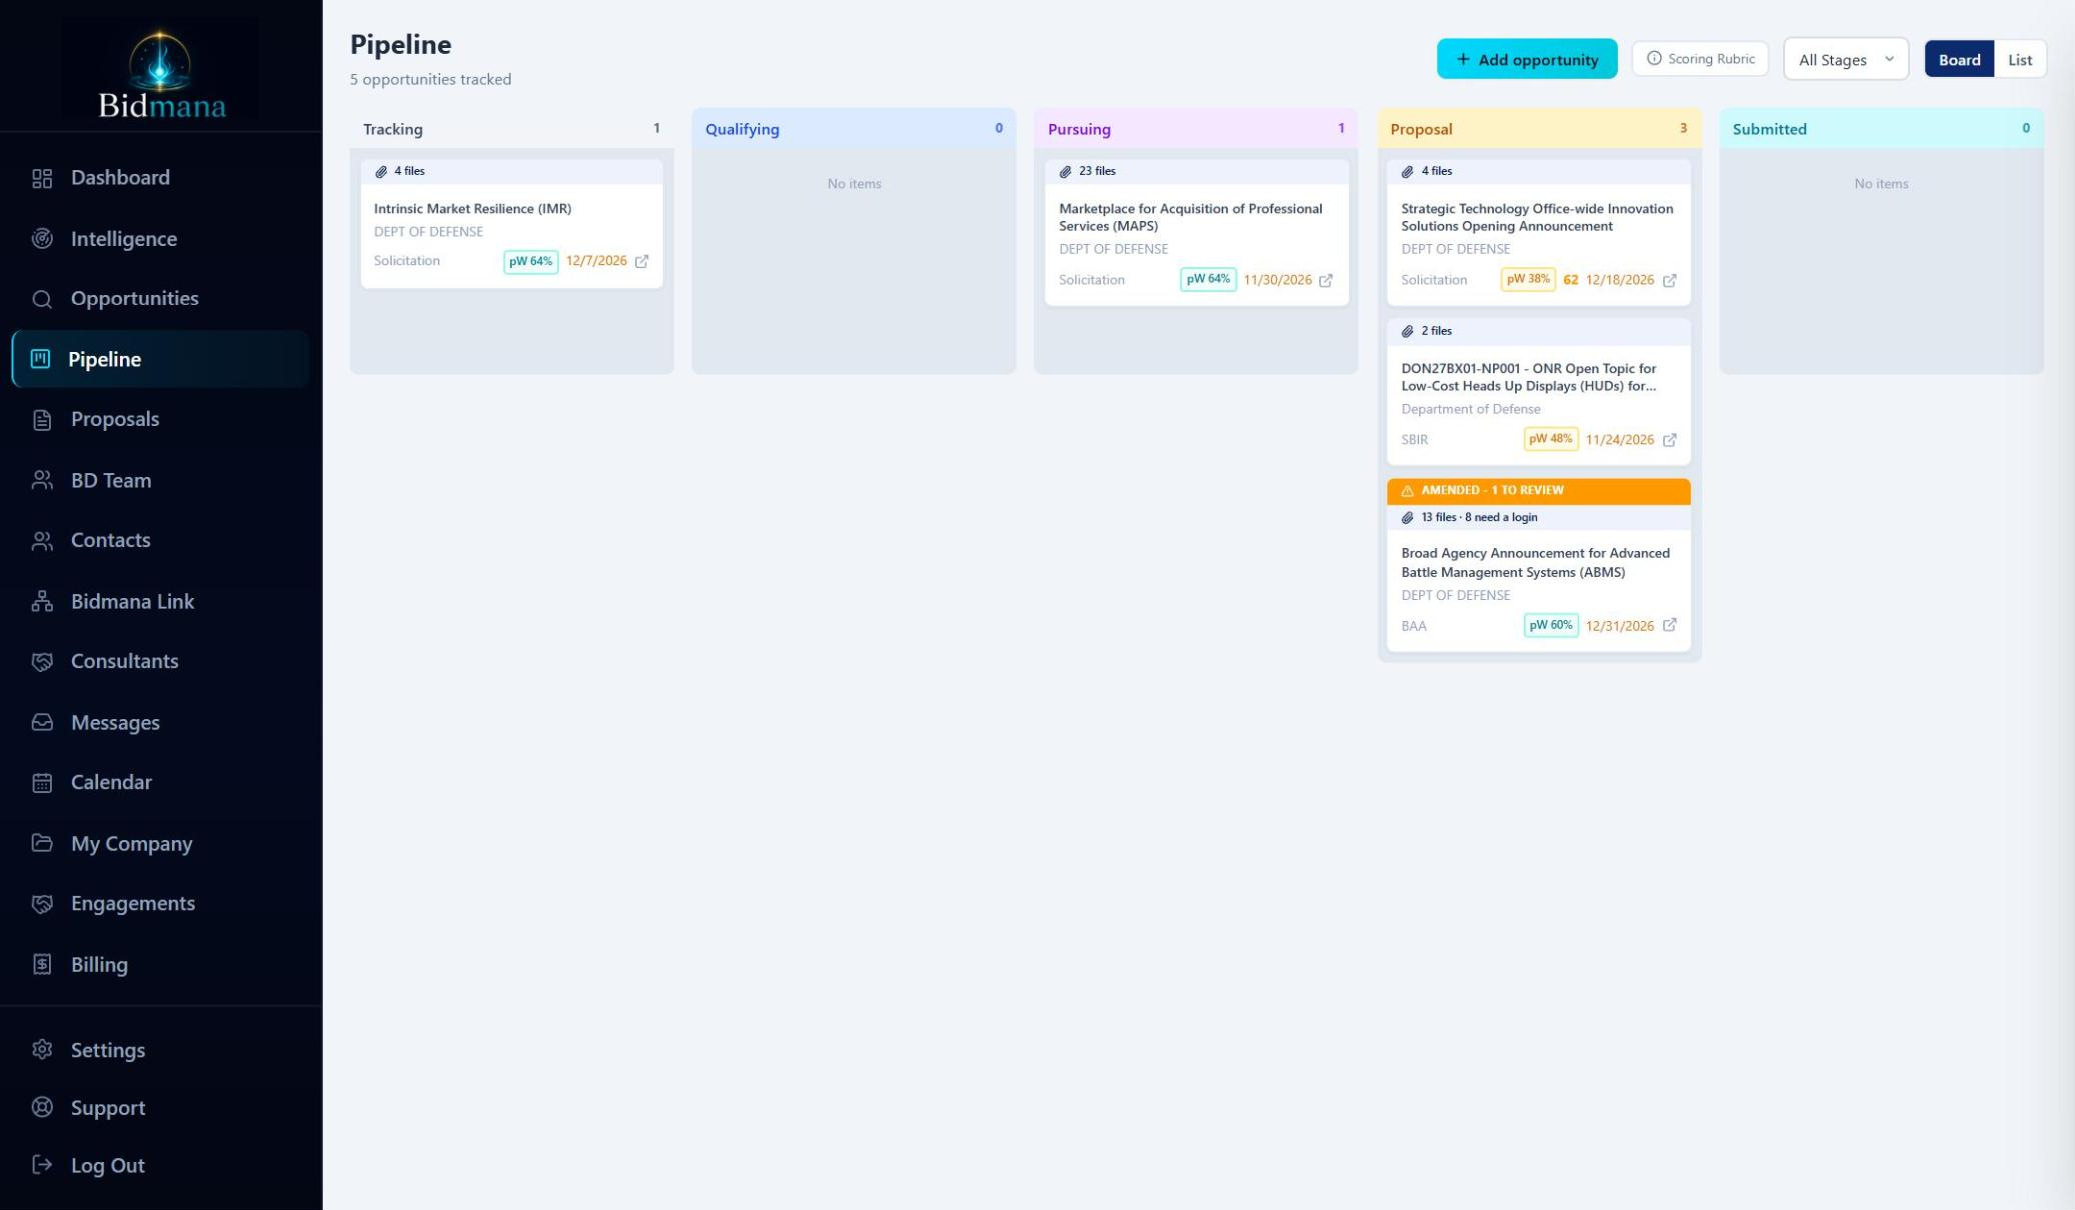
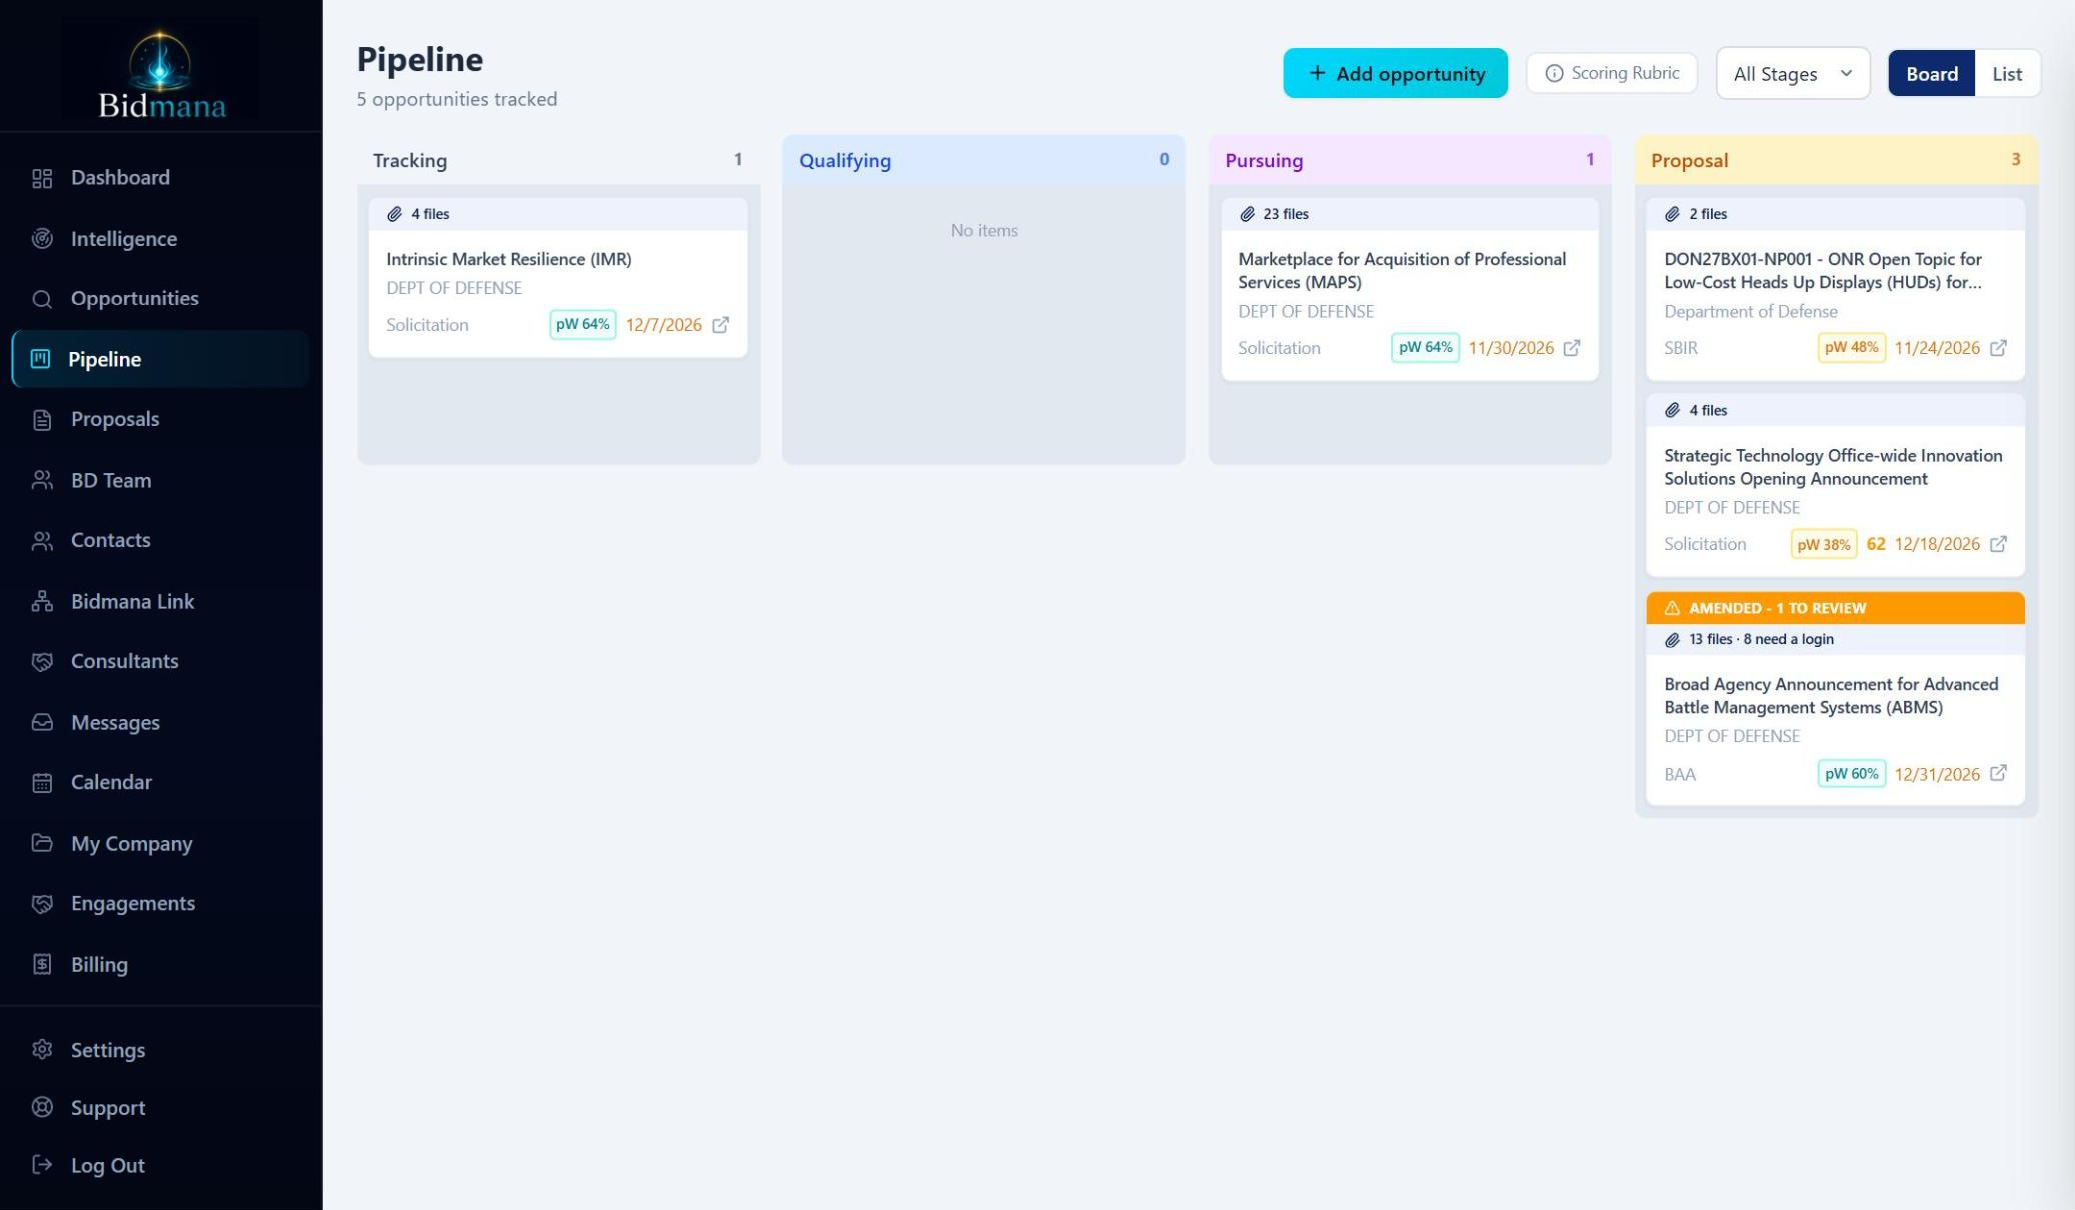
Showcase: pipeline screenshot at full size, Tracking through Proposal

Changed region(s): [[0.4627, 0.0306, 0.987, 0.6421], [0.1542, 0.0306, 0.3701, 0.3058], [0.3393, 0.0917, 0.4318, 0.1529]]

diff --git a/index.html b/index.html
@@ -100,7 +100,7 @@
             <img src="assets/showcase/opportunities.jpg?v=20261116x4" alt="Opportunity search results with fit scores, estimated values, due dates and one-click add to pipeline" loading="lazy" width="2075" height="1210" />
           </figure>
           <figure class="shot-screen" id="shot-pipeline" role="tabpanel" aria-labelledby="tab-pipeline" hidden>
-            <img src="assets/showcase/pipeline.jpg?v=20261116x4" alt="The pipeline board: pursuits moving from Tracking through Qualifying and Pursuing to Proposal and Submitted, each with its files, win probability and due date" loading="lazy" width="2075" height="1210" />
+            <img src="assets/showcase/pipeline.jpg?v=20261116x5" alt="The pipeline board: pursuits moving from Tracking through Qualifying and Pursuing to Proposal, each with its files, win probability and due date" loading="lazy" width="2075" height="1210" />
           </figure>
           <figure class="shot-screen" id="shot-proposal" role="tabpanel" aria-labelledby="tab-proposal" hidden>
             <img src="assets/showcase/proposal.jpg?v=20261116x4" alt="The proposal workspace: the Word-style editor open on a proposal's cover page, with document status and the AI assistant beside it" loading="lazy" width="2075" height="1210" />
